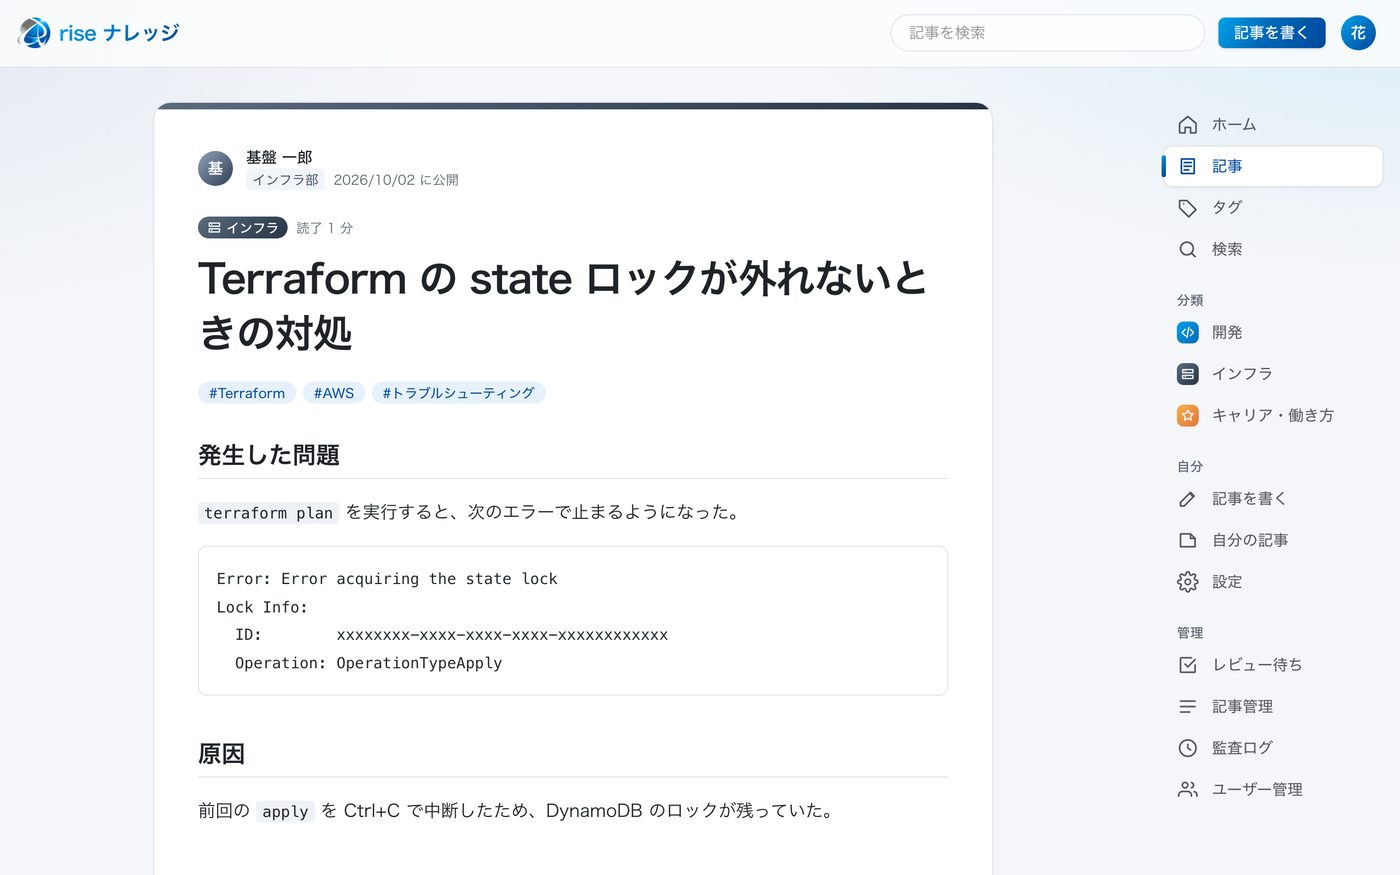
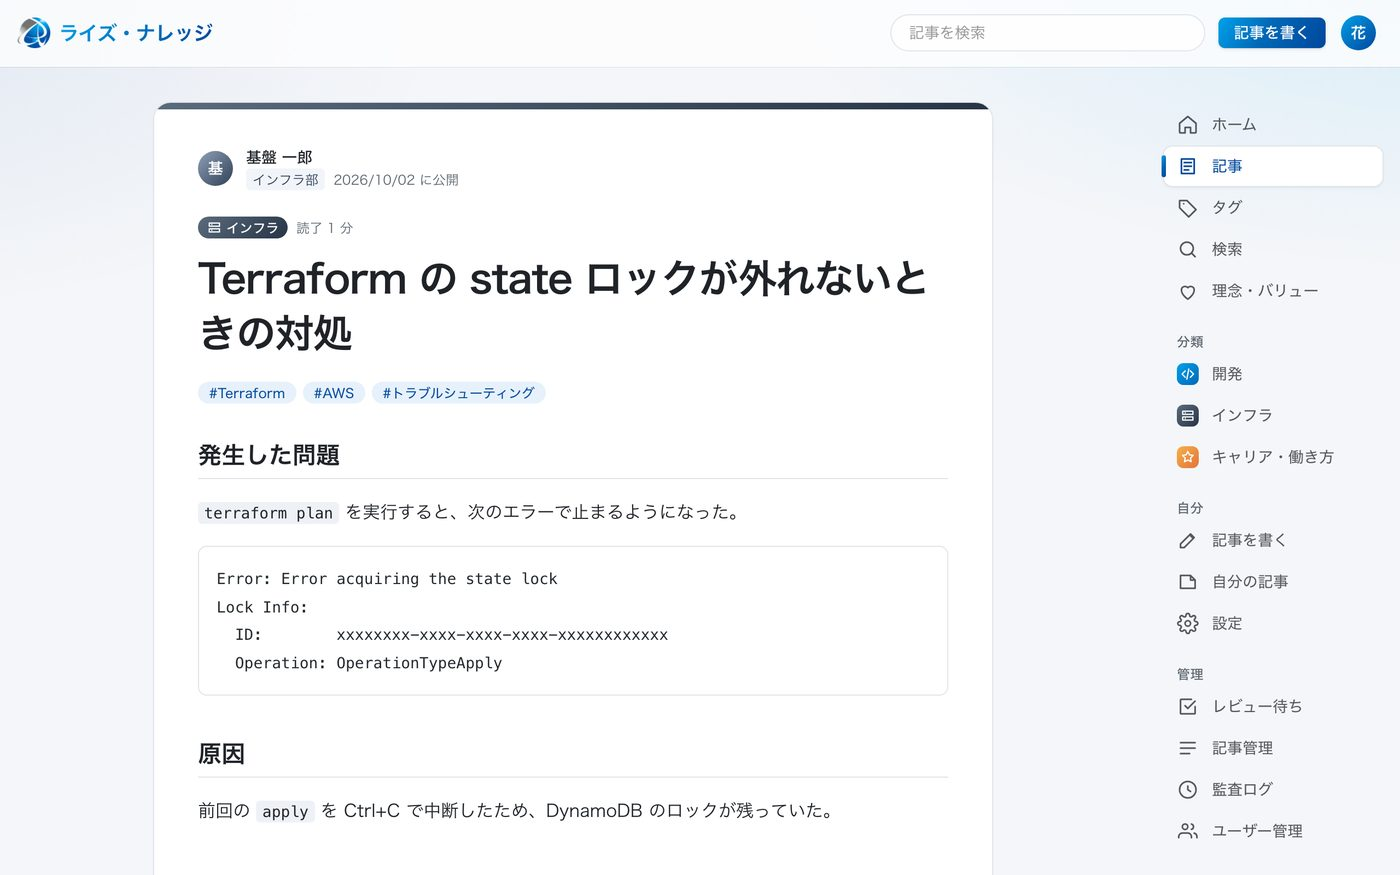
chore: サイト名を「ライズ・ナレッジ」に統一
ヘッダー・ログイン画面・タブのタイトル・デモ・LINE 用のプレビュー画像・README の表記をそろえた。

diff --git a/demo/app.js b/demo/app.js
@@ -1,4 +1,4 @@
-// rise ナレッジ デモ版。本物のアプリ（Next.js）とは別物で、架空のデータをブラウザの中（localStorage）だけで扱う。
+// ライズ・ナレッジ デモ版。本物のアプリ（Next.js）とは別物で、架空のデータをブラウザの中（localStorage）だけで扱う。
 // 承認フローの決まり（自分の記事は承認できない、公開後の編集は新しい版を作る など）は本物に合わせている。
 import { html, render, useState, useEffect, useRef, useMemo } from "https://cdn.jsdelivr.net/npm/htm@3/preact/standalone.module.js";
 import { marked } from "https://cdn.jsdelivr.net/npm/marked@15/lib/marked.esm.js";
@@ -349,7 +349,7 @@ function LoginPage({ onLogin }) {
         <span aria-hidden="true" class="orbit orbit-spin -right-40 -bottom-56 size-[30rem] border-r-transparent border-b-white/40 [animation-duration:70s]"></span>
         <div class="relative flex items-center gap-3">
           <span class="rounded-2xl bg-white p-2 shadow-lg"><img src="logo.png" alt="" width="40" height="38" /></span>
-          <span class="text-xl font-bold">rise ナレッジ</span>
+          <span class="text-xl font-bold">ライズ・ナレッジ</span>
         </div>
         <div class="relative space-y-6">
           <p class="text-4xl leading-tight font-bold tracking-tight xl:text-5xl">離れていても、<br />ひとつのチーム！</p>
@@ -362,7 +362,7 @@ function LoginPage({ onLogin }) {
         <div class="mx-auto w-full max-w-sm space-y-6">
           <div class="text-center lg:text-left">
             <img src="logo.png" alt="rise tech solutions" width="68" height="64" class="mx-auto mb-4 lg:hidden" />
-            <h1 class="text-2xl font-bold tracking-tight">rise ナレッジ <span class="brand-text">操作デモ</span></h1>
+            <h1 class="text-2xl font-bold tracking-tight">ライズ・ナレッジ <span class="brand-text">操作デモ</span></h1>
             <p class="mt-1 text-sm text-muted">データは架空で、このブラウザの中だけに保存されます。</p>
           </div>
           <div class="space-y-2">
@@ -1307,7 +1307,7 @@ function Shell({ state, me, route, actions, children }) {
       </div>
       <header class="glass sticky top-0 z-20 border-b border-white/60 shadow-[0_1px_0_rgb(15_35_70/0.06)]">
         <div class="mx-auto flex max-w-7xl items-center gap-3 px-4 py-2.5">
-          <${Link} to="/" class="flex items-center gap-2 font-bold text-brand-strong"><img src="logo.png" alt="" width="30" height="28" /><span class="brand-text hidden text-lg tracking-tight sm:inline">rise ナレッジ</span><//>
+          <${Link} to="/" class="flex items-center gap-2 font-bold text-brand-strong"><img src="logo.png" alt="" width="30" height="28" /><span class="brand-text hidden text-lg tracking-tight sm:inline">ライズ・ナレッジ</span><//>
           <form onSubmit=${search} class="ml-auto hidden w-72 md:block">
             <input value=${q} onInput=${(e) => setQ(e.target.value)} type="search" placeholder="記事を検索" class="w-full rounded-full border border-border bg-surface/80 px-4 py-1.5 text-sm focus:border-brand focus:bg-surface focus:outline-none" />
           </form>

diff --git a/demo/index.html b/demo/index.html
@@ -5,9 +5,9 @@
     <meta name="viewport" content="width=device-width, initial-scale=1" />
     <!-- デモ版。検索エンジンには載せない -->
     <meta name="robots" content="noindex, nofollow" />
-    <title>rise ナレッジ（デモ版）</title>
-    <meta name="description" content="社内ナレッジ共有サイト「rise ナレッジ」の操作デモ。データはすべて架空で、このブラウザの中だけに保存されます。" />
-    <meta property="og:title" content="rise ナレッジ（デモ版）" />
+    <title>ライズ・ナレッジ（デモ版）</title>
+    <meta name="description" content="社内ナレッジ共有サイト「ライズ・ナレッジ」の操作デモ。データはすべて架空で、このブラウザの中だけに保存されます。" />
+    <meta property="og:title" content="ライズ・ナレッジ（デモ版）" />
     <meta property="og:description" content="記事を書く → AI チェック → 管理者が承認して公開。社内ナレッジ共有サイトの操作デモです（データは架空）。" />
     <meta property="og:type" content="website" />
     <meta property="og:url" content="https://yukis01060106.github.io/rise-knowledge/" />

diff --git a/src/app/(main)/layout.tsx b/src/app/(main)/layout.tsx
@@ -23,7 +23,7 @@ export default async function MainLayout({ children }: LayoutProps<"/">) {
         <div className="mx-auto flex max-w-7xl items-center gap-3 px-4 py-2.5">
           <Link href="/" className="flex items-center gap-2 font-bold text-brand-strong">
             <Image src="/brand/logo.png" alt="" width={30} height={28} priority />
-            <span className="brand-text hidden text-lg tracking-tight sm:inline">rise ナレッジ</span>
+            <span className="brand-text hidden text-lg tracking-tight sm:inline">ライズ・ナレッジ</span>
           </Link>
           <form action="/search" role="search" className="ml-auto hidden w-72 md:block">
             <label htmlFor="header-search" className="sr-only">

diff --git a/src/app/login/page.tsx b/src/app/login/page.tsx
@@ -27,7 +27,7 @@ export default async function LoginPage({ searchParams }: PageProps<"/login">) {
           <span className="rounded-2xl bg-white p-2 shadow-lg">
             <Image src="/brand/logo.png" alt="" width={40} height={38} priority />
           </span>
-          <span className="text-xl font-bold">rise ナレッジ</span>
+          <span className="text-xl font-bold">ライズ・ナレッジ</span>
         </div>
         <div className="relative space-y-6">
           <p className="text-4xl leading-tight font-bold tracking-tight xl:text-5xl">

diff --git a/src/app/layout.tsx b/src/app/layout.tsx
@@ -2,7 +2,7 @@ import type { Metadata } from "next";
 import "./globals.css";
 
 export const metadata: Metadata = {
-  title: "rise ナレッジ",
+  title: "ライズ・ナレッジ",
   description: "rise tech solutions 社内ナレッジ共有サイト",
   robots: { index: false, follow: false },
 };

diff --git a/README.md b/README.md
@@ -1,4 +1,4 @@
-# rise ナレッジ
+# ライズ・ナレッジ
 
 rise tech solutions 社内ナレッジ共有サイト（社内限定）。
 「離れていても、ひとつのチーム！」「学びを、仲間の武器にする！」を実現するための、Qiita のような記事共有サイトです。

diff --git a/CLAUDE.md b/CLAUDE.md
@@ -1,4 +1,4 @@
-# CLAUDE.md — rise tech solutions 社内ナレッジ共有サイト
+# CLAUDE.md — ライズ・ナレッジ（rise tech solutions 社内ナレッジ共有サイト）
 
 @AGENTS.md
 
